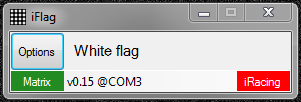
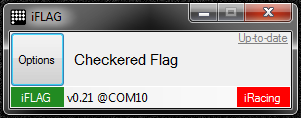
More cleanup

diff --git a/software/README.md b/software/README.md
@@ -1,18 +1,18 @@
-![iFlag logo](http://simracer.cz/iracing/iFlag-logo/logo-full.svg)
+![iFLAG logo](http://simracer.cz/iracing/iFlag-logo/logo-full.svg)
 
 The Software
 ============
 
-	v0.67 (v0.21)
+	v0.76 (v0.21)
 
-_iFlag_ software translates provides the interconnection of iRacing and the matrix. It continuously listens for iRacing session and other signals, processes them and issues commands telling the device exactly what to display
+_iFLAG_ software translates provides the interconnection of iRacing and the matrix. It continuously listens for iRacing session and other signals, processes them and issues commands telling the device exactly what to display
 on the LED matrix.
 
-So far _iFlag_ doesn't come with any installer, it is only an EXE you run. This means that you need to provide certain prerequisities yourself. Namely have this installed on your computer:
+So far _iFLAG_ doesn't come with any installer, it is only an EXE you run. This means that you need to provide certain prerequisities yourself. Namely have this installed on your computer:
 - .NET Framework 4 - get it for free from [Microsoft](https://www.microsoft.com/en-us/download/details.aspx?id=17718).
 - Arduino IDE (only for drivers) - get it for free from [Arduino](https://www.arduino.cc/en/Main/Software).
 
-__Copy the `software/iFlag` folder to anywhere you like on your harddrive, except Program Files folder(s), and run it from there.__ It is useful to make a shortcut in Startup items to have iFlag ready as soon as you start the computer.
+__Copy the `software/iFlag` folder to anywhere you like on your harddrive, except Program Files folder(s), and run it from there.__ It is useful to make a shortcut in Startup items to have _iFLAG_ ready as soon as you start the computer.
 
 __Run iFlag.exe and connect the USB hardware__. Order doesn't matter. Read further tho..
 
@@ -20,7 +20,7 @@ __Run iFlag.exe and connect the USB hardware__. Order doesn't matter. Read furth
 First Time Run
 --------------
 
-Fresh unprogrammed hardware only blinks and is not discoverable easily by iFlag. However, it will give you its best guess on the actual serial port of the uninitialized hardware. In the options menu, new __"Initialize Board at port..." menu item__ will appear after 30 seconds of fruitless scanning. By using that, the "Matrix" indicator in the lower left corner will turn blue and your hardware will be flashed with the correct firmware version for the software.
+Fresh unprogrammed hardware only blinks and is not discoverable easily by _iFLAG_. However, it will give you its best guess on the actual serial port of the uninitialized hardware. In the options menu, new __"Initialize Board at port..." menu item__ will appear after 30 seconds of fruitless scanning. By using that, the "Matrix" indicator in the lower left corner will turn blue and your hardware will be flashed with the correct firmware version for the software.
 
 Once the matrix is up to date, the "Matrix" indicator turns green  to indicate the hardware readiness and that you are ready to run.
 
@@ -30,7 +30,7 @@ Program Window
 
 ![Screenshot of the software window](screenshot.png)
 
-* __Options__ button lets you specify a few _iFlag_ settings explained further.
+* __Options__ button lets you specify a few _iFLAG_ settings explained further.
 * __"White flag"__ is the name of the currently shown flag/signal.
 * __Matrix__ visually indicates USB device connection status, green being connected and red otherwise, with connection details (device firmware version and port) to the right of it
 * __iRacing__ visually indicates running iRacing session, green with iRacing launched and red otherwise.
@@ -47,7 +47,7 @@ Since the LED matrix is totally symetrical it allows to be mounted in four diffe
 
 ### Flag Modules
 
-The visual features of _iFlag_ are coupled into modules, which can be turned on and off individually inside this option submenu.
+The visual features of _iFLAG_ are coupled into modules, which can be turned on and off individually inside this option submenu.
 
 * __Racing Flags__ - currently capable of reacting to iRacing session flag changes and displaying 14 different racing flags. This set is mandatory and can not be turned off.
 * __Start Lights__ - starting procedure lights. Optional.
@@ -56,12 +56,12 @@ The visual features of _iFlag_ are coupled into modules, which can be turned on 
 
 ### Brightness
 
-_iFlag_ allows you to set the LED brightness to __Full__, __High__, __Medium__ and __Low__.
+_iFLAG_ allows you to set the LED brightness to __Full__, __High__, __Medium__ and __Low__.
 
 
 ### Demo Mode
 
-When not inside iRacing session, _iFlag_ can either light down and silently wait for the next session or it can cycle through a demo sequence showcasing a subset of its flag signals. As this feature is flashy, you may become annoying, so you can switch it off eventually.
+When not inside iRacing session, _iFLAG_ can either light down and silently wait for the next session or it can cycle through a demo sequence showcasing a subset of its flag signals. As this feature is flashy, you may become annoying, so you can switch it off eventually.
 
 
 ### Always On Top
@@ -70,8 +70,7 @@ As usual. Whether to keep the window on top of all other windows.
 
 
 ---
-© 2015-2016
+© 2015-2019
 [Petr.Vostřel.cz](http://petr.vostrel.cz),
-[simracer.cz](http://simracer.cz),
-[4xracing.co.uk](http://4xracing.co.uk)
+[simracer.cz](http://simracer.cz)
 

diff --git a/hardware/README.md b/hardware/README.md
@@ -1,11 +1,11 @@
-![iFlag logo](http://simracer.cz/iracing/iFlag-logo/logo-full.svg)
+![iFLAG logo](http://simracer.cz/iracing/iFlag-logo/logo-full.svg)
 
 The Hardware
 ============
 
 	v1
 
-_iFlag_ hardware-wise consists of three individual components, all of them also open source.
+_iFLAG_ hardware-wise consists of three individual components, all of them also open source.
 You should be able to source these parts locally, the following links are only illustrational.
 All three will cost you somewhere around $50 or $60 total.
 
@@ -53,7 +53,7 @@ Assembled unit will look like this:
 Connection
 ----------
 
-Use regular USB cable to connect the _iFlag_ device to your computer. This cable will provide data as well as more than enough power to the flag and it is the only required cable you really need. You do not need any external power supply. But you definitely can use one, with proper rating for your Arduino board (usually 7V - 9V).
+Use regular USB cable to connect the _iFLAG_ device to your computer. This cable will provide data as well as more than enough power to the flag and it is the only required cable you really need. You do not need any external power supply. But you definitely can use one, with proper rating for your Arduino board (usually 7V - 9V).
 
 
 Mounting
@@ -71,8 +71,7 @@ Or buy a [FiTECH](http://www.fi-tech-net) enclosure from Carsten Filmer.
 
 
 ---
-© 2015-2016
+© 2015-2019
 [Petr.Vostřel.cz](http://petr.vostrel.cz),
-[simracer.cz](http://simracer.cz),
-[4xracing.co.uk](http://4xracing.co.uk)
+[simracer.cz](http://simracer.cz)
 
